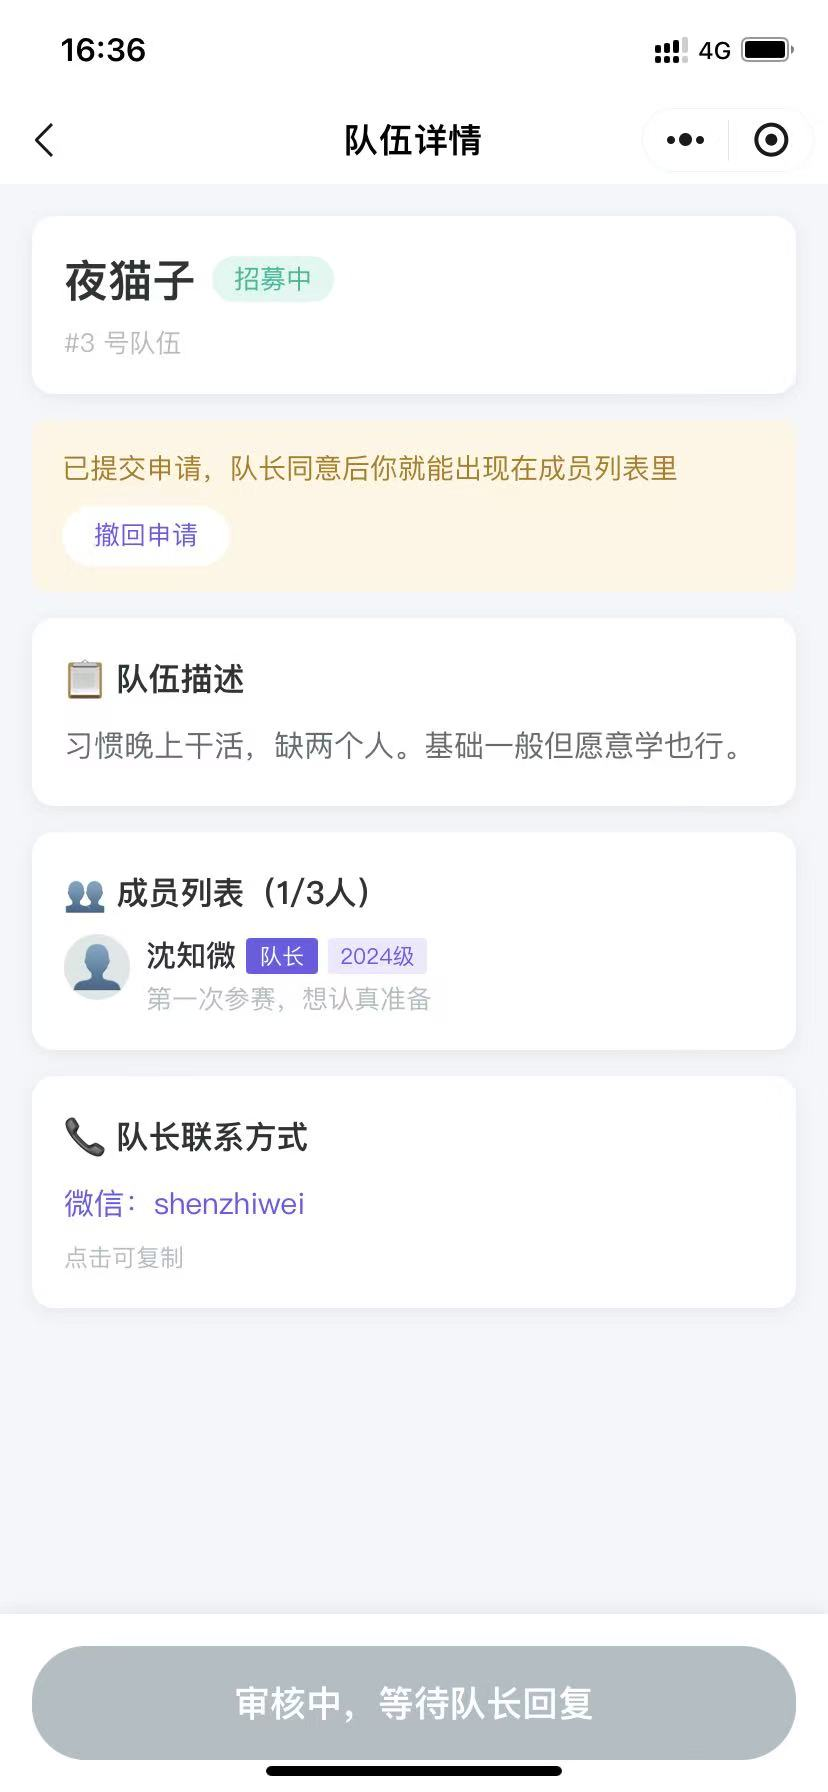
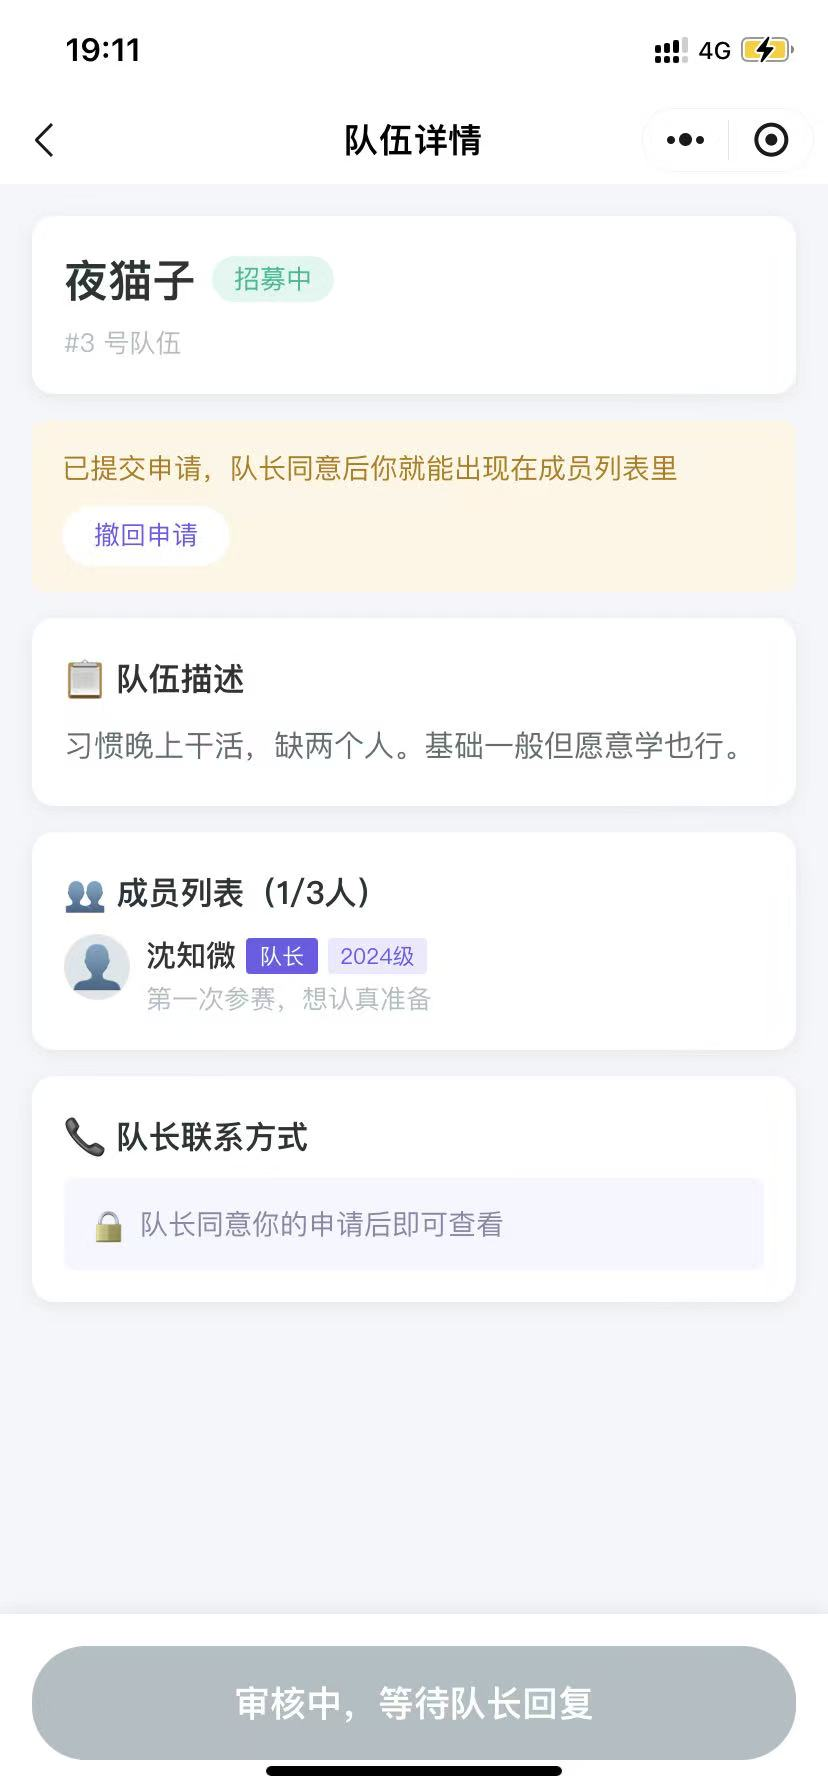
docs: 更新队伍详情截图，体现联系方式对非成员锁定

Changed region(s): [[0.0604, 0.6562, 0.6039, 0.7188], [0.0604, 0.0, 0.1812, 0.0312], [0.9058, 0.0, 0.9662, 0.0312]]

diff --git a/README.md b/README.md
@@ -35,7 +35,7 @@
 | 队伍详情（已提交申请） | 队长审核 |
 | :---: | :---: |
 | <img src="docs/screenshots/03-team-detail.jpg" width="320" /> | <img src="docs/screenshots/04-audit.jpg" width="320" /> |
-| **队伍详情**：申请后按钮变为「审核中」，可撤回 | **队长审核**：名额进度、申请人留言、同意 / 拒绝 |
+| **队伍详情**：申请后按钮变「审核中」，可撤回；联系方式对非成员显示为锁定态 | **队长审核**：名额进度、申请人留言、同意 / 拒绝 |
 
 四张图连起来是一条完整路径：**发现赛事 → 筛选队伍 → 提交申请 → 队长处理**。
 
